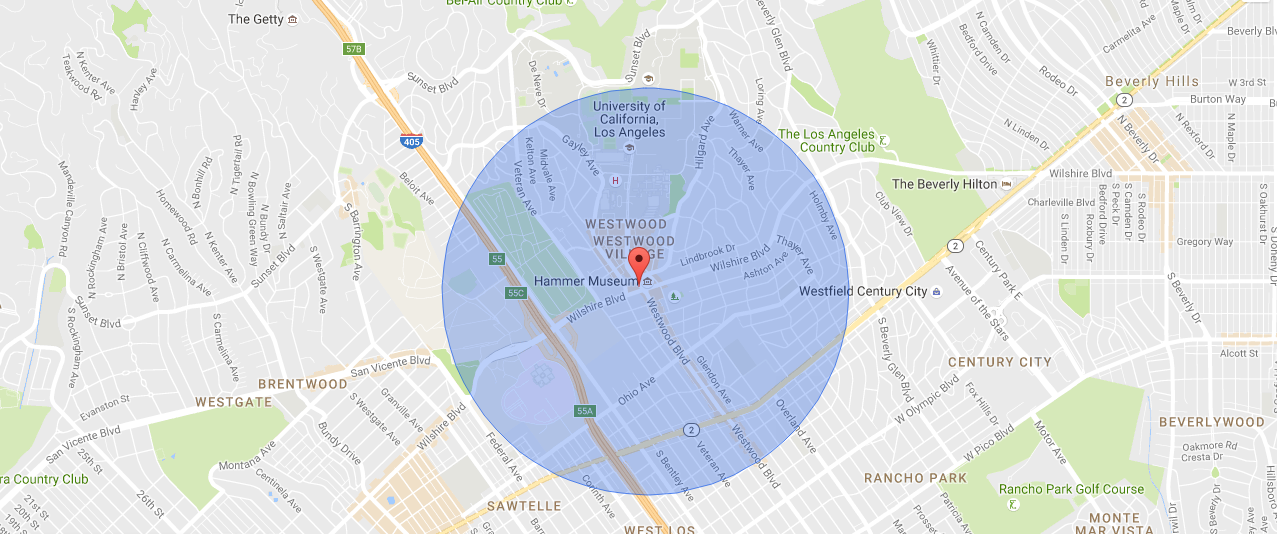
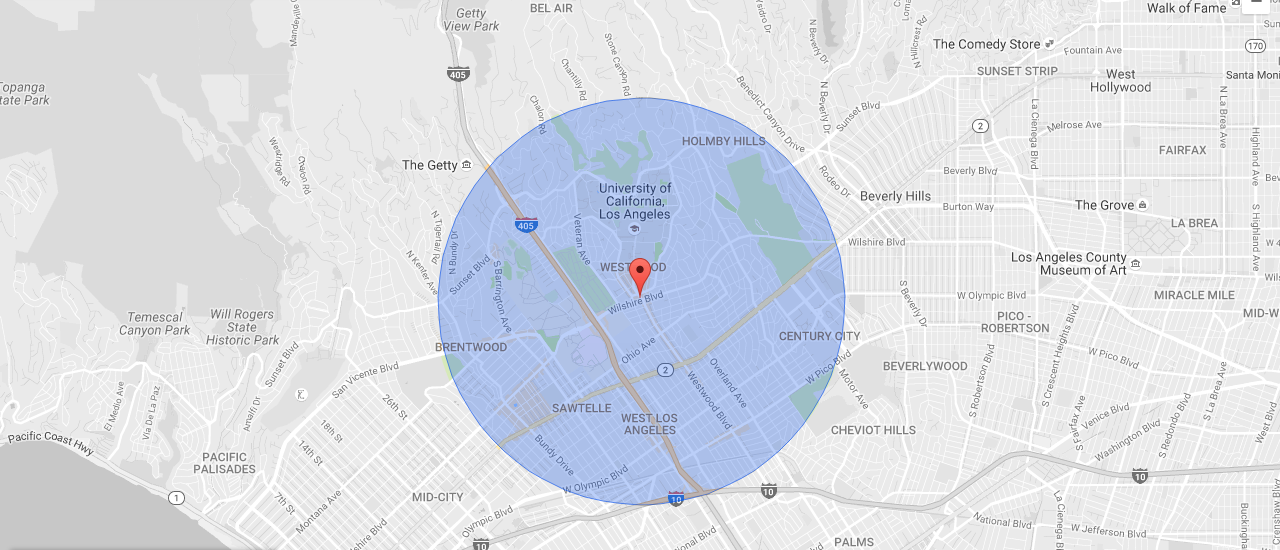
changed map on delivery page

diff --git a/register.html b/register.html
@@ -137,7 +137,7 @@
                         <li role="presentation" class="active">
                             <a href="#step1" data-toggle="tab" aria-controls="step1" role="tab" title="Step 1">
                                 <span class="round-tab">
-                                    <i class="glyphicon glyphicon-folder-open"></i>
+                                    <i class="glyphicon glyphicon-pencil"></i>
                                 </span>
                             </a>
                         </li>
@@ -145,7 +145,7 @@
                         <li role="presentation" class="disabled">
                             <a href="#step2" data-toggle="tab" aria-controls="step2" role="tab" title="Step 2">
                                 <span class="round-tab">
-                                    <i class="glyphicon glyphicon-pencil"></i>
+                                    <i class="glyphicon glyphicon-picture"></i>
                                 </span>
                             </a>
                         </li>
@@ -178,47 +178,40 @@
                                 <div class="row">
                                   <div class="col-xs-6 col-sm-6 col-md-6">
                                     <div class="form-group">
-                                      <input type="text" name="f_name" id="f_name" class="form-control" required placeholder="First Name">
+                                      <label for="f_name">First Name</label>
+                                      <input type="text" name="f_name" id="f_name" class="form-control" required placeholder="">
                                     </div>
                                   </div>
                                   <div class="col-xs-6 col-sm-6 col-md-6">
                                     <div class="form-group">
-                                      <input type="text" name="l_name" id="l_name" class="form-control" required placeholder="Last Name">
+                                      <label for="l_name">Last Name</label>
+                                      <input type="text" name="l_name" id="l_name" class="form-control" required placeholder="">
                                     </div>
                                   </div>
                                 </div>
                               </div>
                                 <div class="form-group">
                                   <label for="exampleInputEmail1">Email address</label>
-                                  <input type="email" class="form-control" id="exampleInputEmail1" placeholder="Enter email">
+                                  <input type="email" class="form-control" id="exampleInputEmail1" placeholder="">
                                 </div>
                                 <div class="form-group">
                                   <label for="exampleInputPassword1">Password</label>
-                                  <input type="password" class="form-control" id="exampleInputPassword1" placeholder="Password">
+                                  <input type="password" class="form-control" id="exampleInputPassword1" placeholder="">
                                 </div>
-                                <!-- Text input-->
-
-
-                                <div class="form-group">
-                                  <label for="exampleInputFile">File input</label>
-                                  <input type="file" id="exampleInputFile">
-                                  <p class="help-block">Upload a picture of your doctor's recommendation</p>
-                                </div>
-                                <div class="checkbox">
-                                  <label>
-                                    <input type="checkbox"> Check me out
-                                  </label>
-                                </div>
-                                <button type="submit" class="btn btn-default">Submit</button>
                               </form>
                             </fieldset>
                             <ul class="list-inline pull-right">
-                                <li><button type="button" class="btn btn-primary next-step">Save and continue</button></li>
+                                <li><button type="button" class="btn btn-default next-step">Save and continue</button></li>
                             </ul>
                         </div>
                         <div class="tab-pane" role="tabpanel" id="step2">
                             <h3>Step 2</h3>
                             <p> Upload Photo of California Identification Card</p>
+                            <div class="form-group">
+                              <label for="exampleInputFile">File input</label>
+                              <input type="file" id="exampleInputFile">
+                              <p class="help-block">Upload a picture of your California ID Card</p>
+                            </div>
                             <ul class="list-inline pull-right">
                                 <li><button type="button" class="btn btn-default prev-step">Previous</button></li>
                                 <li><button type="button" class="btn btn-primary next-step">Save and continue</button></li>
@@ -227,6 +220,11 @@
                         <div class="tab-pane" role="tabpanel" id="step3">
                             <h3>Step 3</h3>
                             <p>Upload Photo of Medical Marijuana Recommendation</p>
+                            <div class="form-group">
+                              <label for="exampleInputFile">File input</label>
+                              <input type="file" id="exampleInputFile">
+                              <p class="help-block">Upload a picture of your doctor's recommendation</p>
+                            </div>
                             <ul class="list-inline pull-right">
                                 <li><button type="button" class="btn btn-default prev-step">Previous</button></li>
                                 <li><button type="button" class="btn btn-default next-step">Skip</button></li>

diff --git a/index.html b/index.html
@@ -99,7 +99,7 @@
 					<div class="col-md-12 col-sm-12">
 						<img src="img/logo_white.png" class="img-responsive" style="width:175px;margin-left:auto;margin-right:auto;">
 						<h1>A <strong>Dependable</strong> Product Line</h1>
-						<h2>Check Out The <a class="white-text" href="marketing.html"> Cannabis Marketing Center</a> </h2>
+						<h2>Check Out The <a class="white-text" href="marketing.html"> Cannabis Market Center</a> </h2>
 						<p></p>
 
 					</div>
@@ -137,7 +137,7 @@
 			<div class="row">
 				<div class="col-md-12 headline">
 					<h2>A <span class="blue">Premiere</span> Full Service Management<br /> Company In The Medical Marijuana Industry</h2>
-					<h4 style="color:#777;">We are dedicated to serving the medical marijuana community by providing the highest quality products </h4>
+					<h4 style="color:#777;">We are dedicated to serving the medical marijuana community by providing the highest quality standards </h4>
 				</div>
 			</div>
 		</div>
@@ -457,10 +457,10 @@
 	<script src="js/jquery.prettyPhoto.js" type="text/javascript" ></script><!-- Script for Lightbox Image  -->
 	<script src="js/custom.js" type="text/javascript"></script><!-- Script File containing all customizations  -->
 	<!-- End Js Files  -->
-	<script type="text/javascript">
+	<!-- <script type="text/javascript">
 	    $(window).load(function(){
 	        $('#modal').modal('show');
 	    });
-	</script>
+	</script> -->
 </body>
 </html>

diff --git a/css/style.css b/css/style.css
@@ -496,11 +496,11 @@ span.round-tab i{
 }
 .wizard li.active span.round-tab {
     background: #fff;
-    border: 2px solid #5bc0de;
+    border: 2px solid #f57694;
 
 }
 .wizard li.active span.round-tab i{
-    color: #5bc0de;
+    color: #ab4f9c;
 }
 
 span.round-tab:hover {
@@ -532,7 +532,7 @@ span.round-tab:hover {
     margin: 0 auto;
     bottom: 0px;
     border: 10px solid transparent;
-    border-bottom-color: #5bc0de;
+    border-bottom-color: #f0749d;
 }
 
 .wizard .nav-tabs > li a {

diff --git a/delivery.html b/delivery.html
@@ -233,7 +233,7 @@
 				<div class="col-lg-12">
 					<div class="headline">
             <h2 style="color: #444;font-weight: lighter;">Are You In Our Delivery Zone ?</h2><br />
-						<img width="800" src="img/zone3.png"  alt="Google Map of westwood, los angeles">
+						<img width="800" src="img/zonemap.png"  alt="Google Map of westwood, los angeles">
 					</div>
 				</div>
 			</div>
